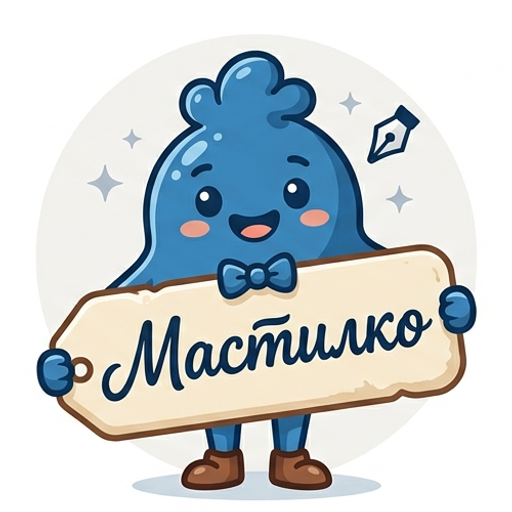
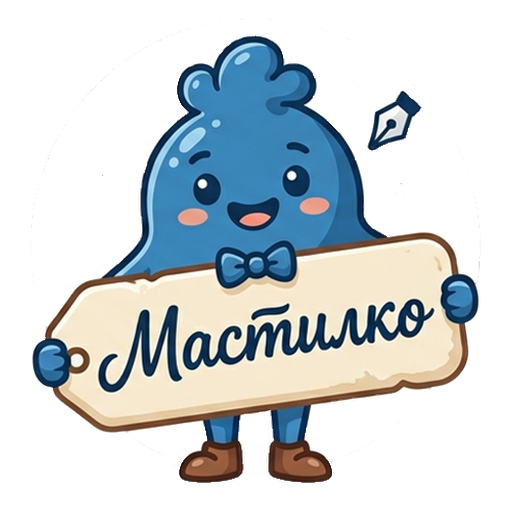
Мастилко: прозрачен фон на логото + светло-синьо сияние навсякъде
- public/mascot.png: премахнат фон (remove.bg + програмно махане на светлия
  сив кръг по наситеност; знакът „Мастилко" запазен) → чист прозрачен PNG.
- Logo.tsx: лек светло-син glow навсякъде, където се ползва логото (двоен
  drop-shadow — плътно ядро #6FC3F0 + мек ореол #3A86B9) през инлайн стил, за
  да важи във всичките три визии и над всеки className; + unoptimized.
- page.tsx: махнат излишният drop-shadow-lg на херо логото (glow-ът го замества).

Проверено на живо в трите визии; печатът не е засегнат. Порта зелена.

Claude-Session: https://claude.ai/code/session_01JTWwYf6jfn2A8hoLom3KYz

diff --git a/mastilko/src/components/Logo.tsx b/mastilko/src/components/Logo.tsx
@@ -1,7 +1,13 @@
 import Image from "next/image";
 
 // Логото на Мастилко — маскотът (мастилена капка с етикет), качен от собственика.
-// `priority` се подава САМО на херо-инстанцията (LCP) — не в хедъра/футъра.
+// Фонът е премахнат (прозрачен PNG); навсякъде носи лек светло-син glow (двоен
+// drop-shadow — плътно ядро + мек ореол), затова инлайн стил, за да важи във
+// всички визии и над всеки className. `priority` се подава САМО на херо-
+// инстанцията (LCP) — не в хедъра/футъра.
+const GLOW =
+  "drop-shadow(0 0 5px rgba(111,195,240,0.55)) drop-shadow(0 0 14px rgba(58,134,185,0.4))";
+
 export default function Logo({
   className = "h-8 w-8",
   priority = false,
@@ -16,6 +22,8 @@ export default function Logo({
       width={512}
       height={512}
       priority={priority}
+      unoptimized
+      style={{ filter: GLOW }}
       className={`${className} select-none`}
     />
   );

diff --git a/mastilko/src/app/page.tsx b/mastilko/src/app/page.tsx
@@ -124,7 +124,7 @@ export default function HomePage() {
           className="pointer-events-none absolute -bottom-32 -left-24 h-80 w-80 rounded-full bg-tera-pale blur-3xl"
         />
         <div className="relative mx-auto max-w-6xl px-4 pb-16 pt-14 text-center sm:pt-20">
-          <Logo priority className="mx-auto h-36 w-36 drop-shadow-lg sm:h-44 sm:w-44" />
+          <Logo priority className="mx-auto h-36 w-36 sm:h-44 sm:w-44" />
           <h1 className="font-display mx-auto mt-6 max-w-3xl text-4xl font-bold leading-tight sm:text-6xl">
             Етикети, визитки и CV —{" "}
             <span className="text-tera">топло и безплатно</span>
